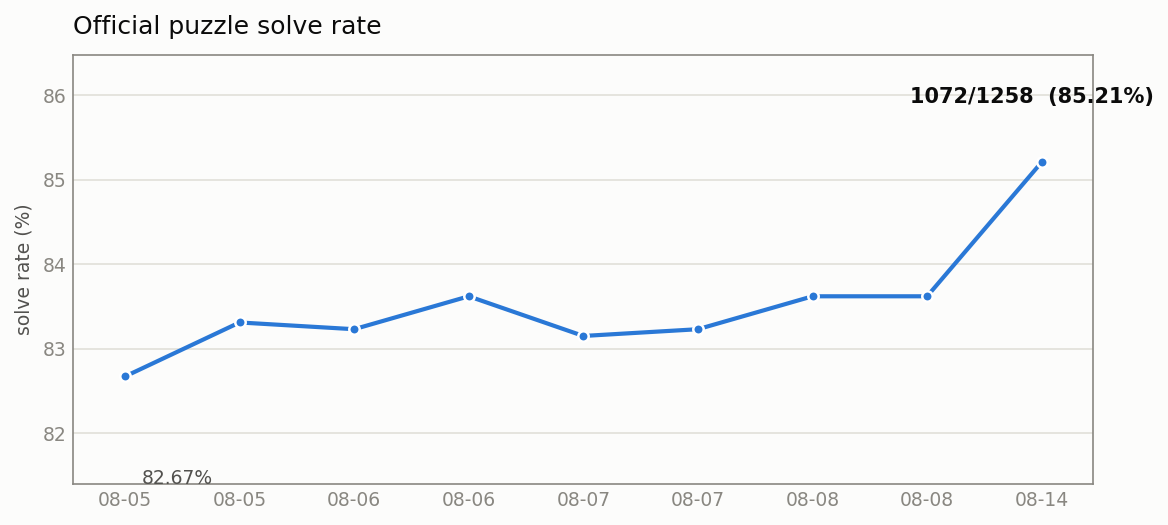
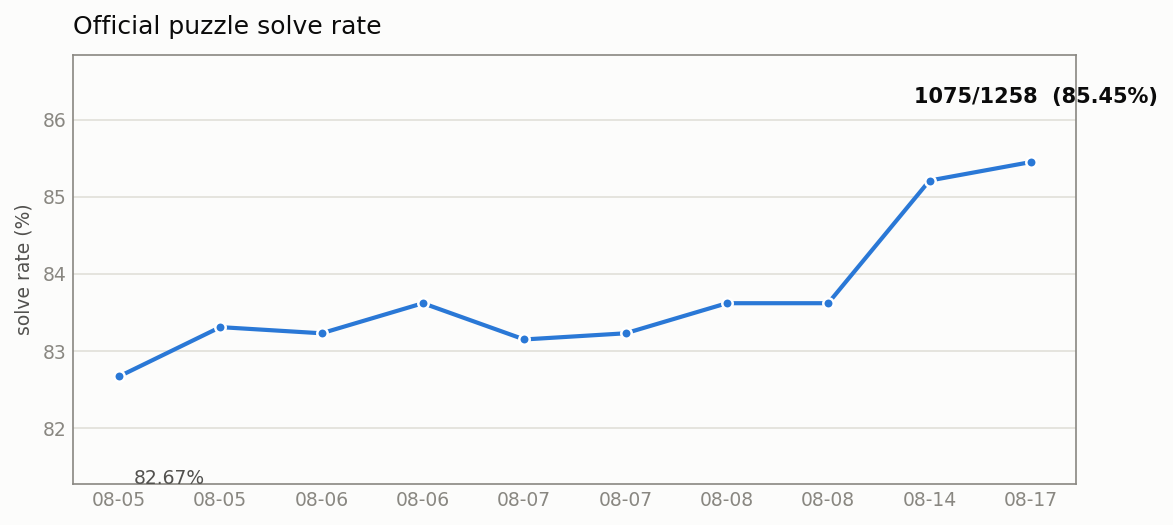
docs: update solver-history trend (1075/1258, edge_csp iterations 2+3)
[skip ci]

diff --git a/web/public/trend/index.html b/web/public/trend/index.html
@@ -68,73 +68,78 @@ a { color: var(--series); }
   <h1>官方谜题求解能力变化</h1>
   <p class="sub">官方谜题 (puzzles/official, 排除 -answer 目录) · 共 1258 题 · 数据源 docs/solver-history.json</p>
   <div class="hero">
-    <span class="num">85.21%</span>
-    <span class="unit">1072 / 1258 题解出</span>
+    <span class="num">85.45%</span>
+    <span class="unit">1075 / 1258 题解出</span>
   </div>
-  <span class="delta">较上次 ▲ <span class="up">1.59%</span>（1072/1258）</span>
+  <span class="delta">较上次 ▲ <span class="up">0.24%</span>（1075/1258）</span>
   <div id="chart-wrap" style="position:relative"><div class="tooltip" id="tooltip" style="visibility:hidden"></div><svg id="chart" viewBox="0 0 840 380" role="img" aria-label="官方题求解率变化曲线">
 <line class="grid" x1="60" y1="340.0" x2="816" y2="340.0"/>
-<text class="axis" x="50" y="344.0" text-anchor="end">81.8%</text>
+<text class="axis" x="50" y="344.0" text-anchor="end">81.7%</text>
 <line class="grid" x1="60" y1="234.7" x2="816" y2="234.7"/>
-<text class="axis" x="50" y="238.7" text-anchor="end">83.2%</text>
+<text class="axis" x="50" y="238.7" text-anchor="end">83.3%</text>
 <line class="grid" x1="60" y1="129.3" x2="816" y2="129.3"/>
-<text class="axis" x="50" y="133.3" text-anchor="end">84.7%</text>
+<text class="axis" x="50" y="133.3" text-anchor="end">84.8%</text>
 <line class="grid" x1="60" y1="24.0" x2="816" y2="24.0"/>
-<text class="axis" x="50" y="28.0" text-anchor="end">86.1%</text>
-<polyline class="line" points="60.0,274.9 154.5,228.1 249.0,234.0 343.5,205.4 438.0,239.8 532.5,234.0 627.0,205.4 721.5,205.4 816.0,89.1" fill="none"/>
+<text class="axis" x="50" y="28.0" text-anchor="end">86.4%</text>
+<polyline class="line" points="60.0,274.9 144.0,232.1 228.0,237.5 312.0,211.4 396.0,242.8 480.0,237.5 564.0,211.4 648.0,211.4 732.0,105.1 816.0,89.1" fill="none"/>
 <circle class="point" cx="60.0" cy="274.9" r="4.5">
 <title>2026-08-05  33d32c5
 1040/1258  (82.67%)</title>
 </circle>
 <text class="axis" x="60.0" y="366" text-anchor="middle">08-05</text>
-<circle class="point" cx="154.5" cy="228.1" r="4.5">
+<circle class="point" cx="144.0" cy="232.1" r="4.5">
 <title>2026-08-05  4733f59
 1048/1258  (83.31%)</title>
 </circle>
-<text class="axis" x="154.5" y="366" text-anchor="middle">08-05</text>
-<circle class="point" cx="249.0" cy="234.0" r="4.5">
+<text class="axis" x="144.0" y="366" text-anchor="middle">08-05</text>
+<circle class="point" cx="228.0" cy="237.5" r="4.5">
 <title>2026-08-06  7e569e7
 1047/1258  (83.23%)</title>
 </circle>
-<text class="axis" x="249.0" y="366" text-anchor="middle">08-06</text>
-<circle class="point" cx="343.5" cy="205.4" r="4.5">
+<text class="axis" x="228.0" y="366" text-anchor="middle">08-06</text>
+<circle class="point" cx="312.0" cy="211.4" r="4.5">
 <title>2026-08-06  dfadfe3
 1052/1258  (83.62%)</title>
 </circle>
-<text class="axis" x="343.5" y="366" text-anchor="middle">08-06</text>
-<circle class="point" cx="438.0" cy="239.8" r="4.5">
+<text class="axis" x="312.0" y="366" text-anchor="middle">08-06</text>
+<circle class="point" cx="396.0" cy="242.8" r="4.5">
 <title>2026-08-07  6169df3
 1046/1258  (83.15%)</title>
 </circle>
-<text class="axis" x="438.0" y="366" text-anchor="middle">08-07</text>
-<circle class="point" cx="532.5" cy="234.0" r="4.5">
+<text class="axis" x="396.0" y="366" text-anchor="middle">08-07</text>
+<circle class="point" cx="480.0" cy="237.5" r="4.5">
 <title>2026-08-07  cd40cab
 1047/1258  (83.23%)</title>
 </circle>
-<text class="axis" x="532.5" y="366" text-anchor="middle">08-07</text>
-<circle class="point" cx="627.0" cy="205.4" r="4.5">
+<text class="axis" x="480.0" y="366" text-anchor="middle">08-07</text>
+<circle class="point" cx="564.0" cy="211.4" r="4.5">
 <title>2026-08-08  bd2f5f5
 1052/1258  (83.62%)</title>
 </circle>
-<text class="axis" x="627.0" y="366" text-anchor="middle">08-08</text>
-<circle class="point" cx="721.5" cy="205.4" r="4.5">
+<text class="axis" x="564.0" y="366" text-anchor="middle">08-08</text>
+<circle class="point" cx="648.0" cy="211.4" r="4.5">
 <title>2026-08-08  shape-cap-aog
 1052/1258  (83.62%)</title>
 </circle>
-<text class="axis" x="721.5" y="366" text-anchor="middle">08-08</text>
-<circle class="point" cx="816.0" cy="89.1" r="4.5">
+<text class="axis" x="648.0" y="366" text-anchor="middle">08-08</text>
+<circle class="point" cx="732.0" cy="105.1" r="4.5">
 <title>2026-08-14  edge-csp-solver
 1072/1258  (85.21%)</title>
 </circle>
-<text class="axis" x="816.0" y="366" text-anchor="middle">08-14</text>
+<text class="axis" x="732.0" y="366" text-anchor="middle">08-14</text>
+<circle class="point" cx="816.0" cy="89.1" r="4.5">
+<title>2026-08-17  8758659
+1075/1258  (85.45%)</title>
+</circle>
+<text class="axis" x="816.0" y="366" text-anchor="middle">08-17</text>
 <line class="crosshair" id="crosshair" y1="0" y2="0" visibility="hidden"/>
 </svg></div>
-  <table><thead><tr><th>日期</th><th>commit</th><th class='num'>通过</th><th class='num'>占比</th></tr></thead><tbody><tr class="latest"><td>2026-08-14</td><td>edge-csp-solver</td><td class="num">1072/1258</td><td class="num">85.21%</td></tr><tr><td>2026-08-08</td><td>shape-cap-aog</td><td class="num">1052/1258</td><td class="num">83.62%</td></tr><tr><td>2026-08-08</td><td>bd2f5f5</td><td class="num">1052/1258</td><td class="num">83.62%</td></tr><tr><td>2026-08-07</td><td>cd40cab</td><td class="num">1047/1258</td><td class="num">83.23%</td></tr><tr><td>2026-08-07</td><td>6169df3</td><td class="num">1046/1258</td><td class="num">83.15%</td></tr><tr><td>2026-08-06</td><td>dfadfe3</td><td class="num">1052/1258</td><td class="num">83.62%</td></tr><tr><td>2026-08-06</td><td>7e569e7</td><td class="num">1047/1258</td><td class="num">83.23%</td></tr><tr><td>2026-08-05</td><td>4733f59</td><td class="num">1048/1258</td><td class="num">83.31%</td></tr><tr><td>2026-08-05</td><td>33d32c5</td><td class="num">1040/1258</td><td class="num">82.67%</td></tr></tbody></table>
+  <table><thead><tr><th>日期</th><th>commit</th><th class='num'>通过</th><th class='num'>占比</th></tr></thead><tbody><tr class="latest"><td>2026-08-17</td><td>8758659</td><td class="num">1075/1258</td><td class="num">85.45%</td></tr><tr><td>2026-08-14</td><td>edge-csp-solver</td><td class="num">1072/1258</td><td class="num">85.21%</td></tr><tr><td>2026-08-08</td><td>shape-cap-aog</td><td class="num">1052/1258</td><td class="num">83.62%</td></tr><tr><td>2026-08-08</td><td>bd2f5f5</td><td class="num">1052/1258</td><td class="num">83.62%</td></tr><tr><td>2026-08-07</td><td>cd40cab</td><td class="num">1047/1258</td><td class="num">83.23%</td></tr><tr><td>2026-08-07</td><td>6169df3</td><td class="num">1046/1258</td><td class="num">83.15%</td></tr><tr><td>2026-08-06</td><td>dfadfe3</td><td class="num">1052/1258</td><td class="num">83.62%</td></tr><tr><td>2026-08-06</td><td>7e569e7</td><td class="num">1047/1258</td><td class="num">83.23%</td></tr><tr><td>2026-08-05</td><td>4733f59</td><td class="num">1048/1258</td><td class="num">83.31%</td></tr><tr><td>2026-08-05</td><td>33d32c5</td><td class="num">1040/1258</td><td class="num">82.67%</td></tr></tbody></table>
   <p class="sub" style="margin-top:24px">曲线纵轴为缩放后的求解率区间（非 0–100），
   以突出小幅变化；完整数值见下表与仓库内 <code>docs/solver-history.json</code>。</p>
 </div>
 <script>
-const DATA = [{"date": "2026-08-05", "commit": "33d32c5", "passed": 1040, "total": 1258, "pct": 82.67}, {"date": "2026-08-05", "commit": "4733f59", "passed": 1048, "total": 1258, "pct": 83.31}, {"date": "2026-08-06", "commit": "7e569e7", "passed": 1047, "total": 1258, "pct": 83.23}, {"date": "2026-08-06", "commit": "dfadfe3", "passed": 1052, "total": 1258, "pct": 83.62}, {"date": "2026-08-07", "commit": "6169df3", "passed": 1046, "total": 1258, "pct": 83.15}, {"date": "2026-08-07", "commit": "cd40cab", "passed": 1047, "total": 1258, "pct": 83.23}, {"date": "2026-08-08", "commit": "bd2f5f5", "passed": 1052, "total": 1258, "pct": 83.62}, {"date": "2026-08-08", "commit": "shape-cap-aog", "passed": 1052, "total": 1258, "pct": 83.62}, {"date": "2026-08-14", "commit": "edge-csp-solver", "passed": 1072, "total": 1258, "pct": 85.21}];
+const DATA = [{"date": "2026-08-05", "commit": "33d32c5", "passed": 1040, "total": 1258, "pct": 82.67}, {"date": "2026-08-05", "commit": "4733f59", "passed": 1048, "total": 1258, "pct": 83.31}, {"date": "2026-08-06", "commit": "7e569e7", "passed": 1047, "total": 1258, "pct": 83.23}, {"date": "2026-08-06", "commit": "dfadfe3", "passed": 1052, "total": 1258, "pct": 83.62}, {"date": "2026-08-07", "commit": "6169df3", "passed": 1046, "total": 1258, "pct": 83.15}, {"date": "2026-08-07", "commit": "cd40cab", "passed": 1047, "total": 1258, "pct": 83.23}, {"date": "2026-08-08", "commit": "bd2f5f5", "passed": 1052, "total": 1258, "pct": 83.62}, {"date": "2026-08-08", "commit": "shape-cap-aog", "passed": 1052, "total": 1258, "pct": 83.62}, {"date": "2026-08-14", "commit": "edge-csp-solver", "passed": 1072, "total": 1258, "pct": 85.21}, {"date": "2026-08-17", "commit": "8758659", "passed": 1075, "total": 1258, "pct": 85.45}];
 const svg = document.getElementById('chart');
 const cross = document.getElementById('crosshair');
 const tip = document.getElementById('tooltip');
